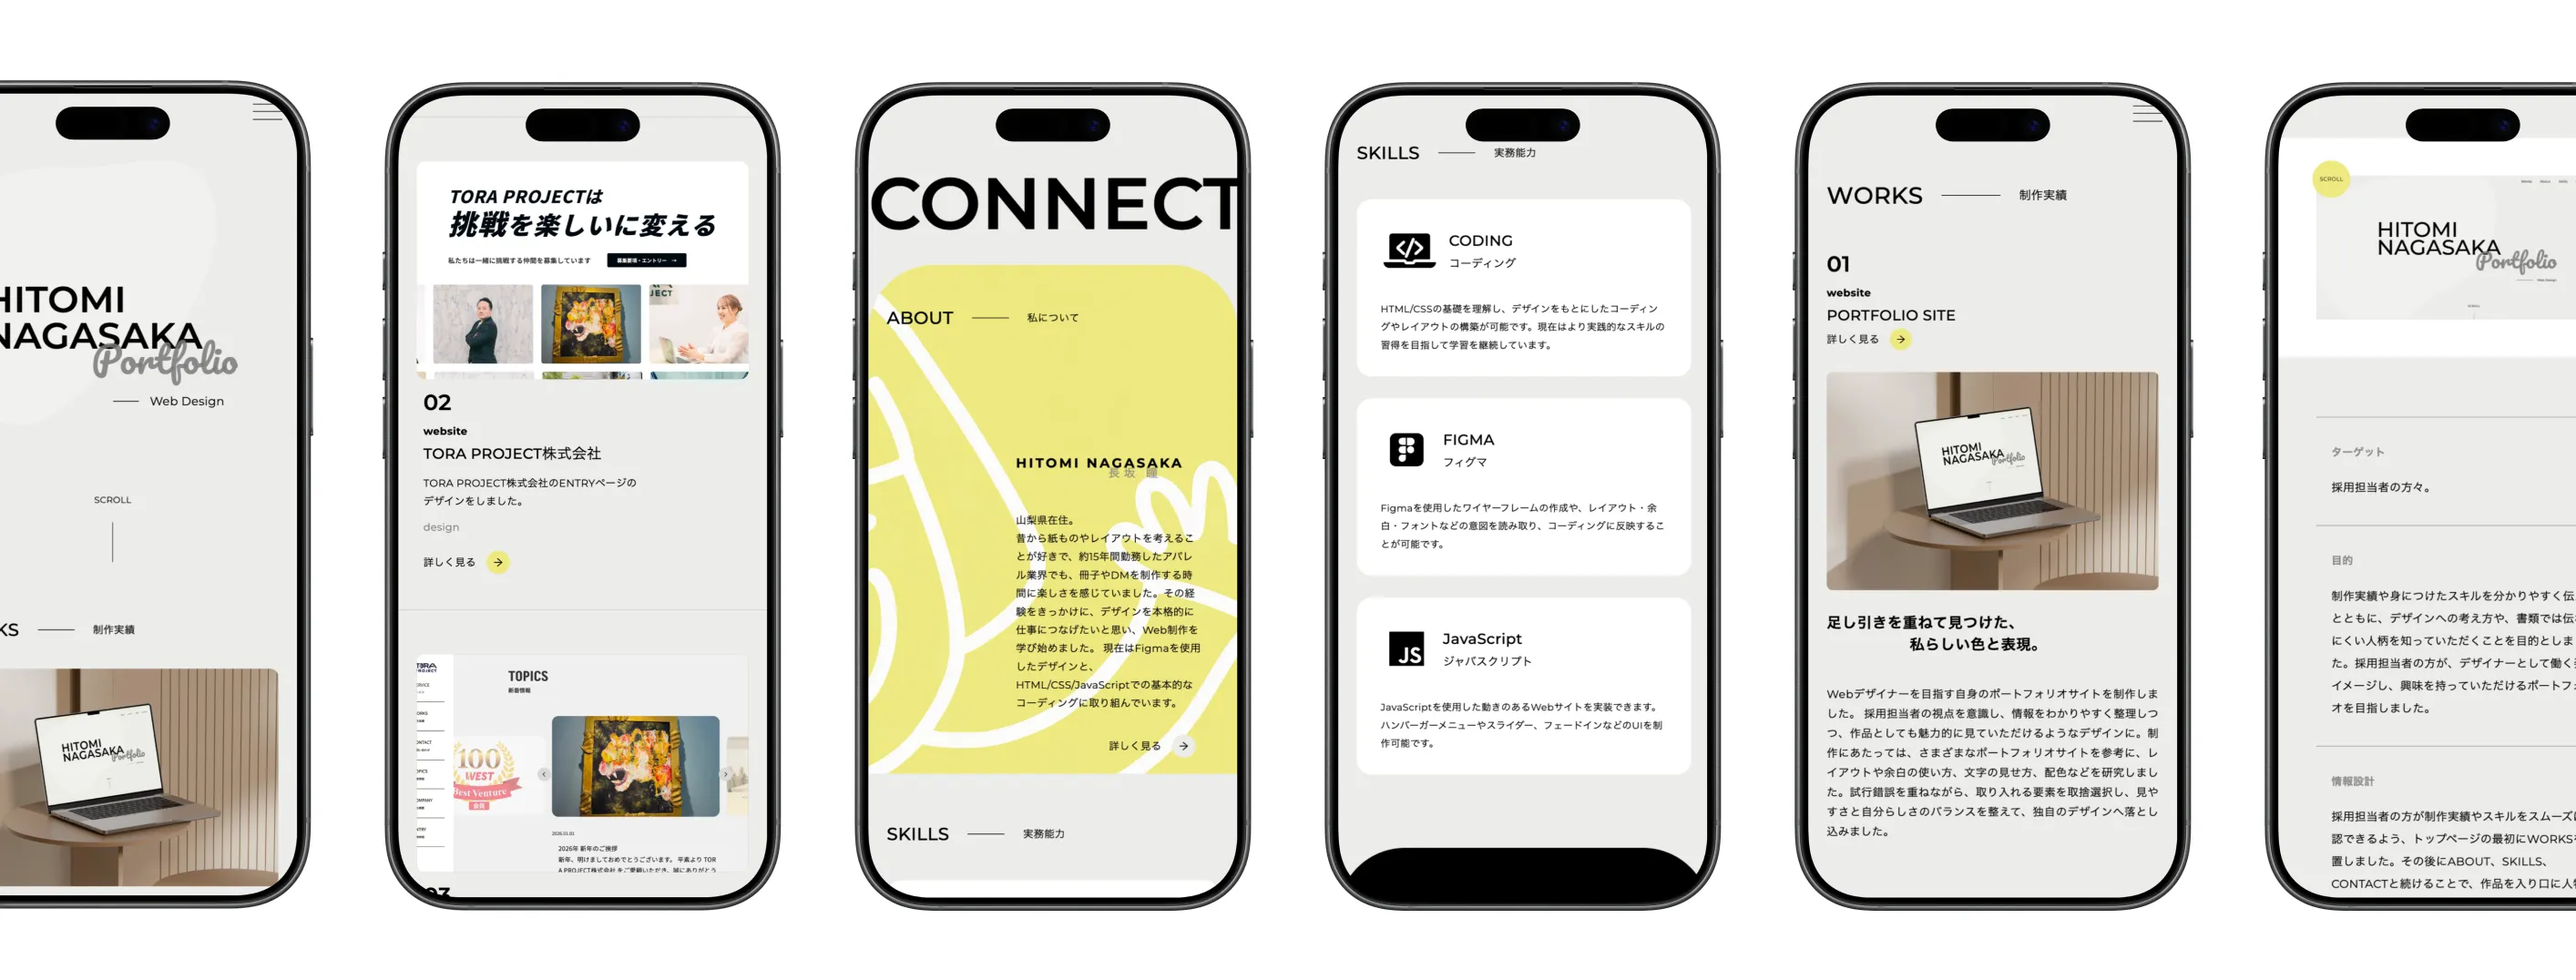
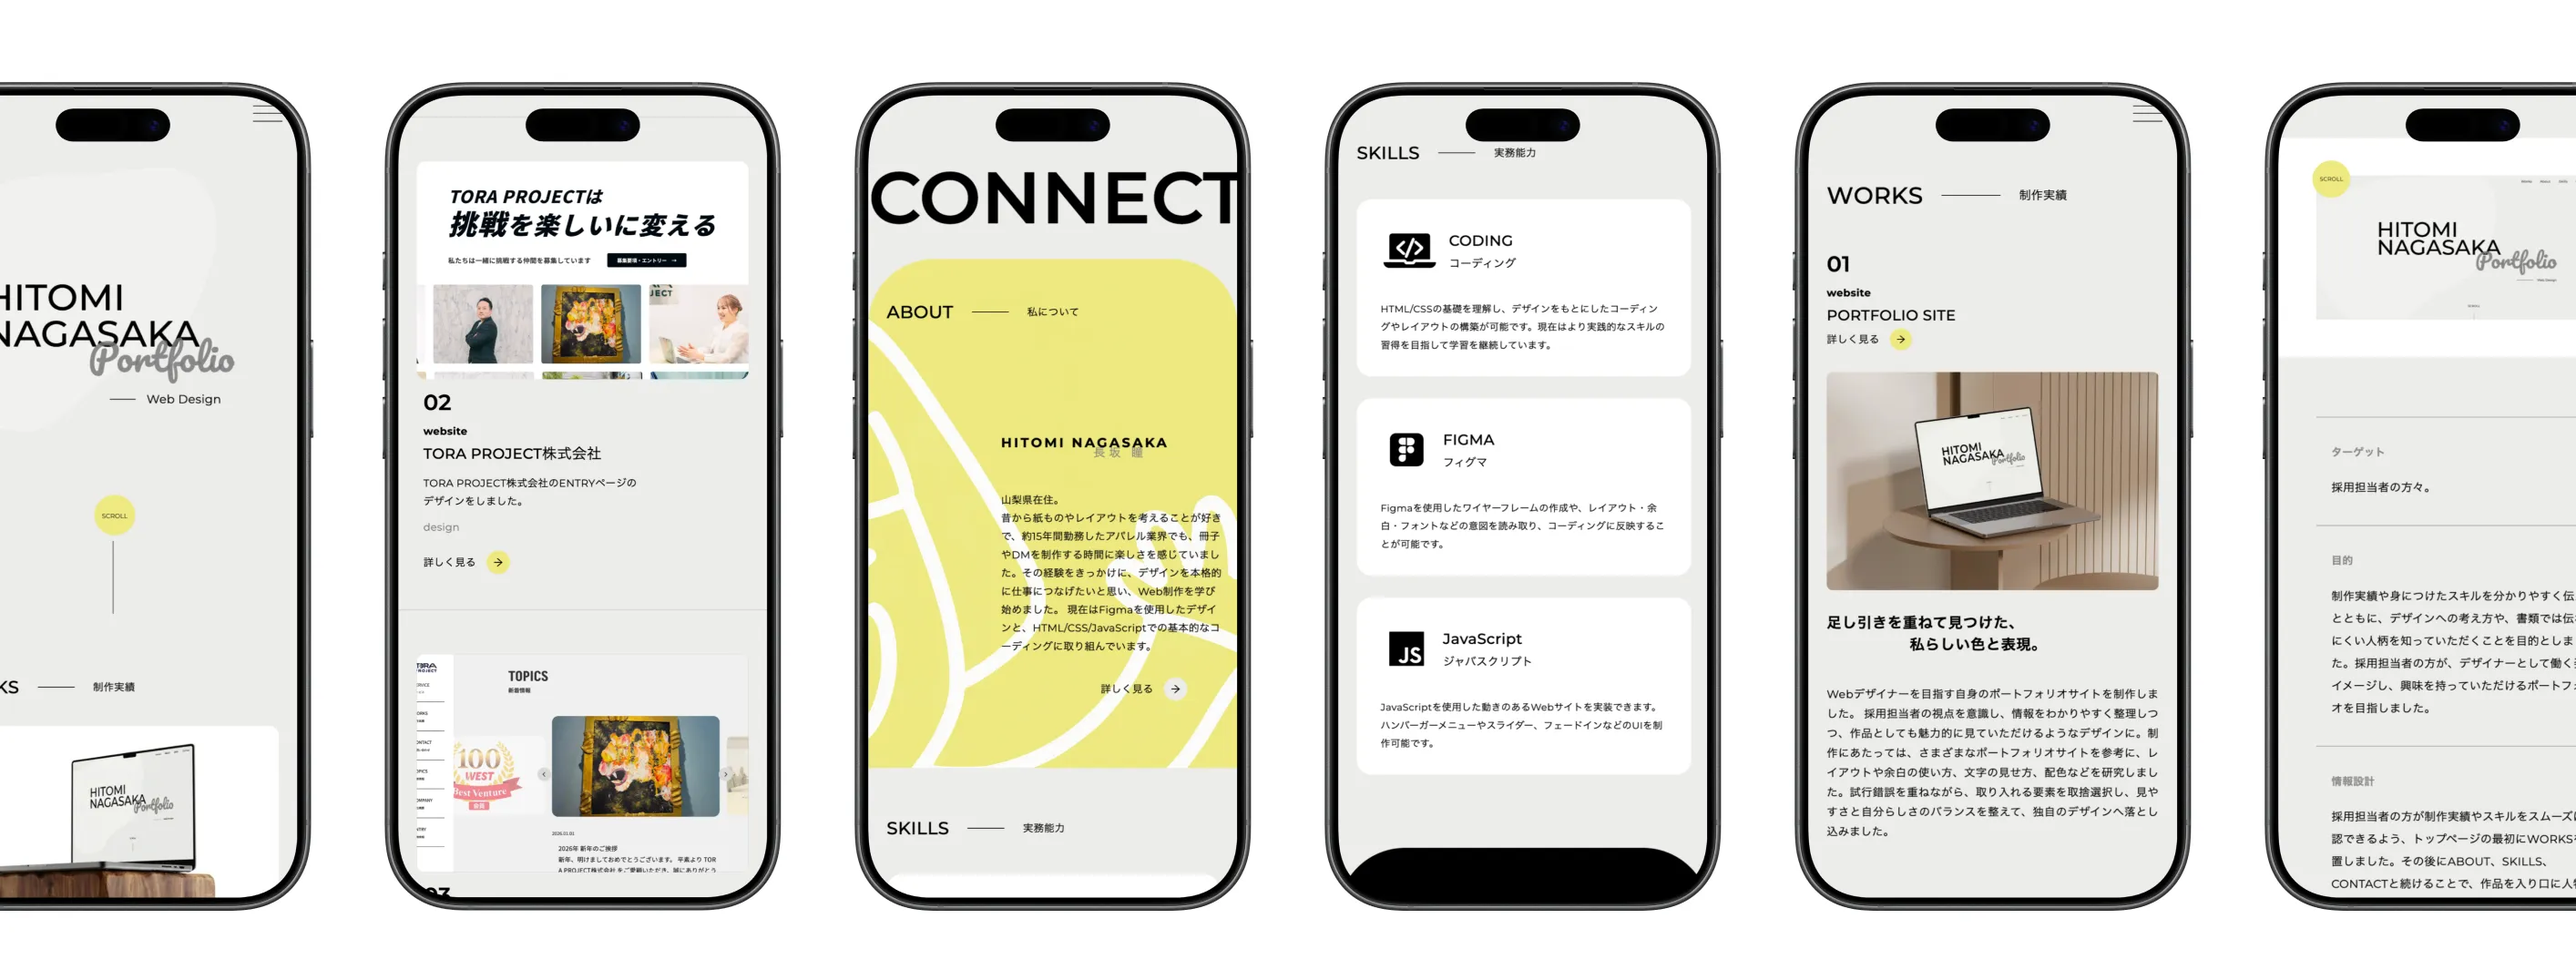
portfolio commit5
FV sp 修正２

diff --git a/css/style.css b/css/style.css
@@ -126,7 +126,7 @@ body {
   justify-content: flex-end;
   position: absolute;
   right: -40%;
-  bottom: -75%;
+  bottom: -80%;
   z-index: 3;
   font-size: clamp(12px, 1vw, 16px);
   gap: 10%;
@@ -212,6 +212,8 @@ body {
   flex-direction: column;
   align-items: center;
   gap: 20px;
+
+  transform: translateX(-50%);
 }
 
 .scroll p {
@@ -221,9 +223,11 @@ body {
   animation: scrollTextIn 0.7s ease-out 3.1s forwards;
 }
 
-.scroll span {
+.scroll-line {
+  display: block;
   width: 1px;
   height: 0;
+  margin: 0;
   background: #4a4a4a;
   animation: scrollLineIn 0.7s ease-in-out 3.5s forwards;
 }
@@ -231,6 +235,7 @@ body {
 .scroll-icon-wrap {
   display: none;
 }
+
 
 @keyframes scrollTextIn {
   to {
@@ -1058,7 +1063,17 @@ body {
   }
 
   .scroll {
-    /* left: 45%; */
+    position: absolute;
+    left: 0;
+    top: auto;
+    bottom: 8%;
+
+    width: 100%;
+    display: flex;
+    flex-direction: column;
+    align-items: center;
+    gap: 16px;
+    transform: none;
   }
 
   .scroll p {
@@ -1067,23 +1082,52 @@ body {
 
   .scroll-icon-wrap {
     display: block;
-    position: absolute;
-    left: 45%;
-    bottom: 16%;
+    position: static;
     width: 64px;
     height: auto;
-  
-    z-index: 3;
+    margin-left: 13%;
+    
 
     opacity: 0;
     transform: translateY(-16px);
     animation: scrollIcon 0.7s ease-out 3.1s forwards;
   }
 
+   .scroll-line {
+    display: block;
+    position: static;
+
+    width: 1px;
+    height: 0;
+    margin: 0;
+
+    background-color: #4a4a4a;
+
+    animation: scrollLineIn 0.7s ease-in-out 3.5s forwards;
+  }
+
+  @keyframes scrollLineIn {
+  to {
+    height: var(--scrill-line-height);
+  }
+}
+
+:root {
+  --scrill-line-height: 80px;
+}
+
+  .scroll span:not(.scroll-line) {
+    display: none;
+  }
+
   @keyframes scrollIcon {
+  from {
+    opacity: 0;
+    transform: translate(-50%, 0);
+  }
   to {
     opacity: 1;
-    transform: translateX(0);
+    transform: translate(-50%, 0);
   }
 }
 
@@ -1242,7 +1286,6 @@ body {
   .skills-info {
     width: 100%;
   }
-
 
 
 

diff --git a/works/works-2.html b/works/works-2.html
@@ -177,7 +177,7 @@
       </dl>
     </section>
 
-    <img src="../img/TOPICS MOC.png" alt="トピックスページモックアップ画像" class="mobile-mockup mockup1">
+    <img src="../img/TOPICS MOC.webp" alt="トピックスページモックアップ画像" class="mobile-mockup mockup1">
 
     <section id="other-works">
       <div class="section-title js-section-title">
@@ -200,7 +200,7 @@
 
       <div class="other-flex">
         <div class="other-item other-1">
-          <a href="../index.html" target="_blank">
+          <a href="../works/portfolio.html" target="_blank">
             <img src="../img/WORKS-1.webp" alt="ポートフォリオ画像" class="other-img">
             <p class="other-name">PORTFOLIO SITE</p>
             <p class="ather-skill">design / coding / JavaScript</p>

diff --git a/index.html b/index.html
@@ -85,11 +85,10 @@
 
       <div class="scroll">
         <p>SCROLL</p>
-        <span></span>
-      </div>
 
-      <div class="scroll-icon-wrap">
-        <img src="img/SCROLL黄色円.svg" alt="スクロールアイコン" class="scroll-icon2">
+        <img src="img/SCROLL黄色円.svg" alt="スクロールアイコン" class="scroll-icon-wrap">
+
+        <span class="scroll-line"></span>
       </div>
 
       <a href="#contact" class="fv-contact">CONTACT</a>

diff --git a/works/works-1.html b/works/works-1.html
@@ -197,7 +197,7 @@
 
       <div class="other-flex">
         <div class="other-item other-1">
-          <a href="../index.html" target="_blank">
+          <a href="../works/portfolio.html" target="_blank">
             <img src="../img/WORKS-1.webp" alt="ポートフォリオ画像" class="other-img">
             <p class="other-name">PORTFOLIO SITE</p>
             <p class="ather-skill">design / coding / JavaScript</p>
